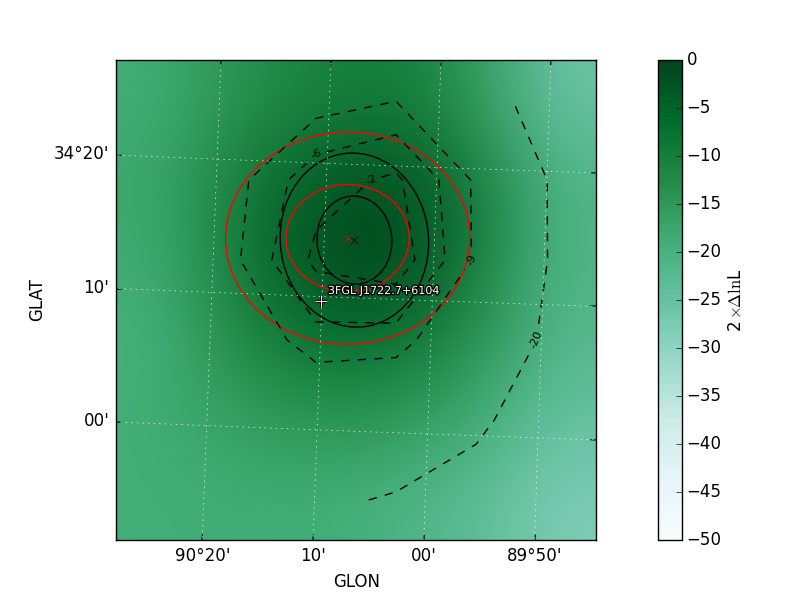
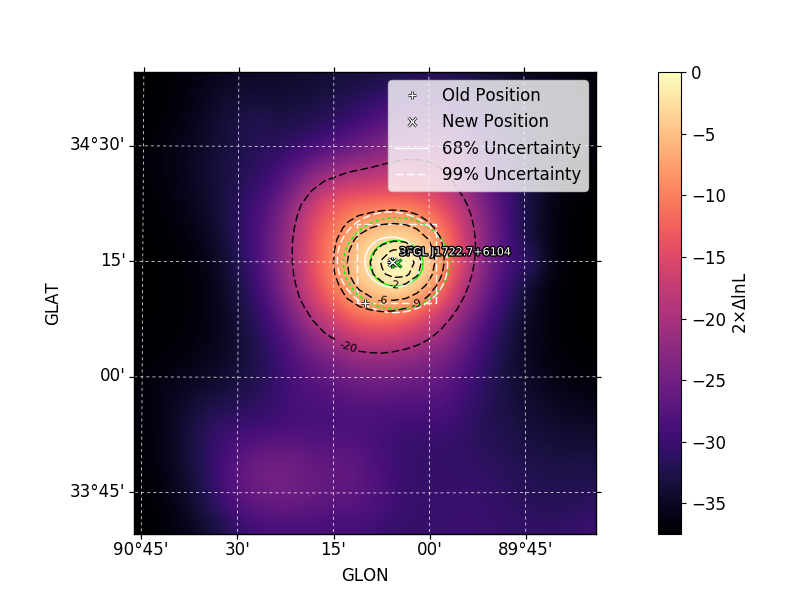
improve localization docs

diff --git a/docs/advanced/localization.rst b/docs/advanced/localization.rst
@@ -22,26 +22,34 @@ analysis proceeds in two steps:
   likelihood scan and will re-fit all free parameters of the model.
 
 The localization method is executed by passing the name of a source as
-its argument.  The method returns a python dictionary with the best-fit source
-position and localization errors and also saves this information to
-the *localization* dictionary of the `~fermipy.roi_model.Source`
-object.
+its argument.  The method returns a python dictionary with the
+best-fit source position and localization errors and also saves the same
+information to FITS and numpy files.
 
 .. code-block:: python
    
-   >>> loc = gta.localize('3FGL J1722.7+6104')
-   >>> print(loc['ra'],loc['dec'],loc['r68'],loc['r95'])
+   >>> loc = gta.localize('3FGL J1722.7+6104', make_plots=True)
+   >>> print(loc['ra'],loc['dec'],loc['pos_r68'],loc['pos_r95'])
    (260.53164555483784, 61.04493807148745, 0.14384100879403075, 0.23213050350030126)
 
-By default the method will save a plot to the working directory with a
-visualization of the localization contours.  The black and red
-contours show the uncertainty ellipse derived from the TS Map and
-likelihood scan, respectively.
+When running with ``make_plots=True`` the method will save a
+diagnostic plot to the working directory with a visualization of the
+localization contours.  The green and white contours show the
+uncertainty ellipse derived from the first and second iterations of
+the positional scan.
 
-.. image:: 3fgl_j1722.7+6104_localize.png
-   :width: 75%
-   :align: center
+.. |image_loc| image:: 3fgl_j1722.7+6104_localize.png
+   :width: 100%
    
+.. |image_loc_peak| image:: 3fgl_j1722.7+6104_localize_peak.png
+   :width: 100%
+
+.. csv-table::
+   :header: First Iteration, Second Iteration
+   :widths: 50, 50
+           
+   |image_loc|, |image_loc_peak|
+
 The default configuration for the localization analysis can be
 overriden by supplying one or more *kwargs*:
    
@@ -49,19 +57,23 @@ overriden by supplying one or more *kwargs*:
    
    # Localize the source and update its properties in the model
    # with the localized position
-   >>> o = gta.extension('sourceA', update=True)
+   >>> o = gta.extension('3FGL J1722.7+6104', update=True)
 
-The localization method will not profile over any background
-parameters that were free when the method was executed.  One can free
-background parameters with the ``free_background`` parameter:
+By default all background parameters will be fixed when the positional
+fit is performed.  One can choose to free background parameters with
+the ``free_background`` and ``free_radius`` options:
 
 .. code-block:: python
    
    # Free a nearby source that may be be partially degenerate with the
    # source of interest
    gta.free_norm('sourceB')
-   gta.localize('sourceA', free_background=True)
+   gta.localize('3FGL J1722.7+6104', free_background=True)
 
+   # Free normalizations of background sources within a certain
+   # distance of the source of interest
+   gta.localize('3FGL J1722.7+6104', free_radius=1.0)
+   
 The contents of the output dictionary are described in the following table:
 
 .. csv-table:: *localize* Output
@@ -70,7 +82,16 @@ The contents of the output dictionary are described in the following table:
    :delim: tab
    :widths: 10,10,80
 
+Configuration
+-------------
 
+.. csv-table:: *localize* Options
+   :header:    Option, Default, Description
+   :file: ../config/localize.csv
+   :delim: tab
+   :widths: 10,10,80
+
+            
 Reference/API
 -------------
 
